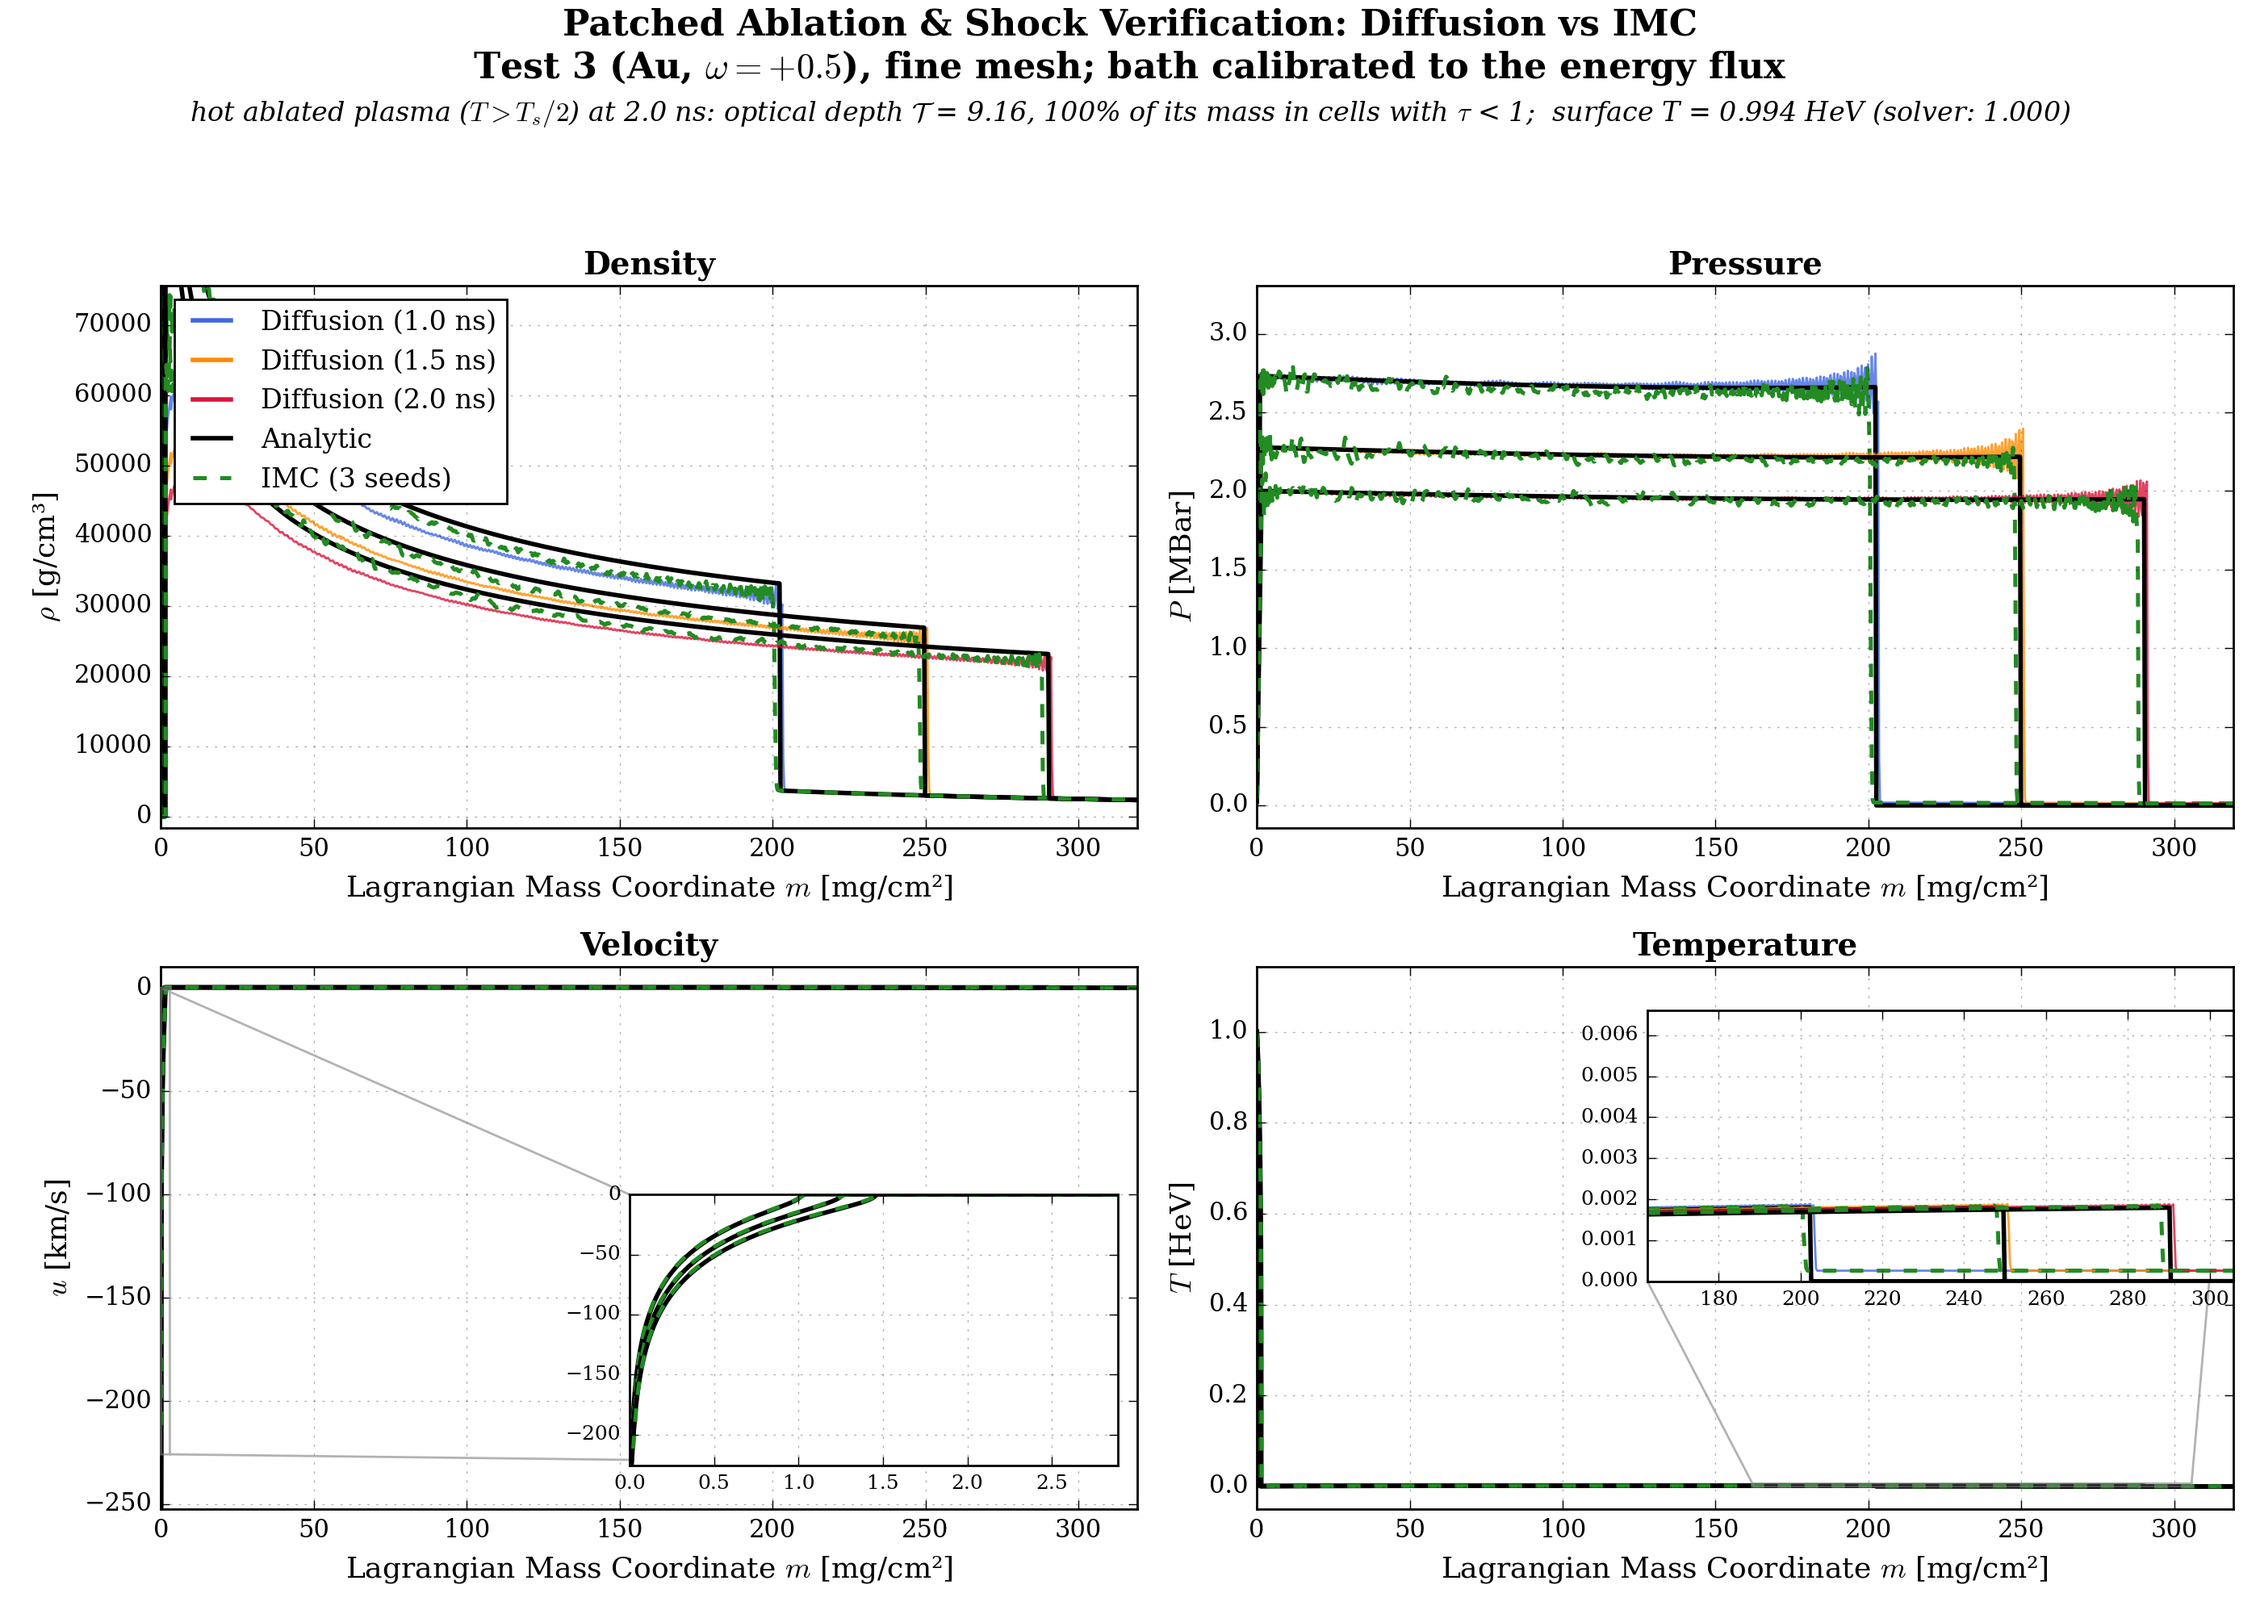
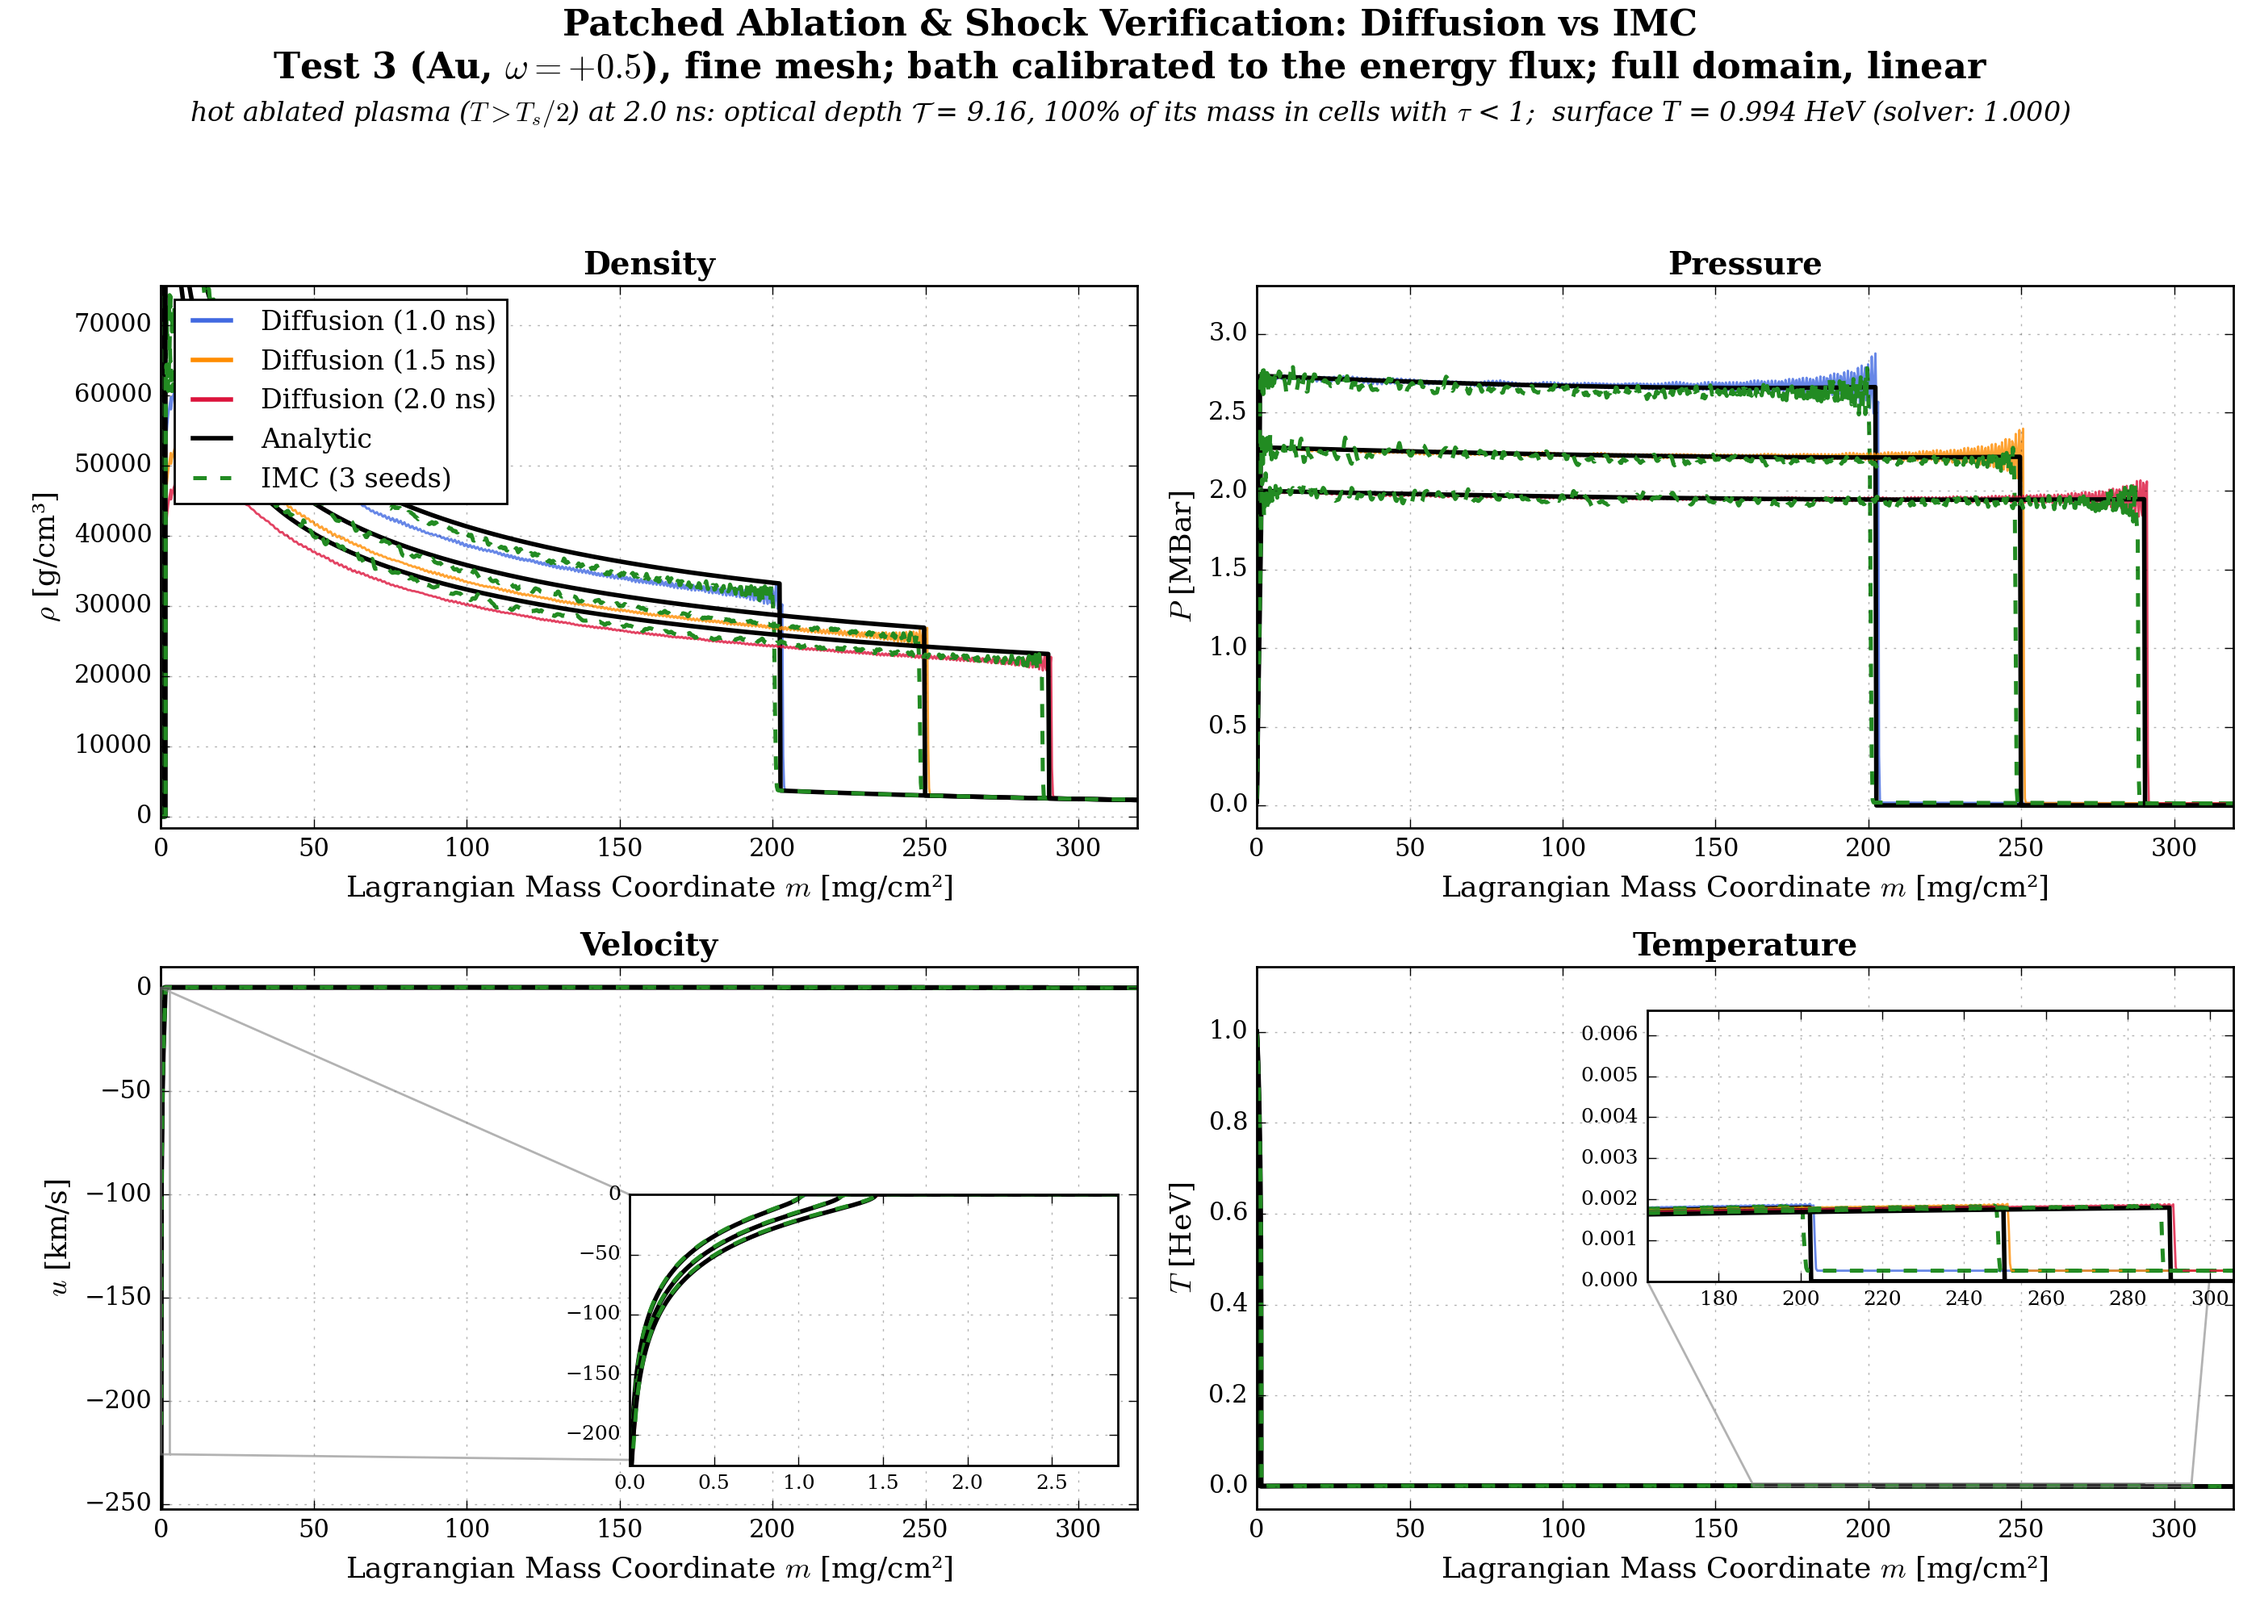
Restore imc_vs_diffusion.py's figure helpers; Test 3 flux views redrawn; convergence notes
imc_vs_diffusion.py and calibrated_flux_bath/test4_full/full_linear.png had been reverted in
the working copy (an older editor buffer); both are back to the last commit, plus the guard
for runs without IMC seeds in _load_hydro. The six Test 3 flux-bath views are redrawn with
the region/scale title and the lower log floor.

omega sweep README: the mesh shift on the uniform-mass meshes follows the number of cells
across the ablated layer (<= 0.3 points from 80 cells, ~1.2 at 40), and at +0.4 it was the
shocked region's cell size quantizing the shock's mass coordinate.

Changed region(s): [[0.1243, 0.031, 0.87, 0.062]]

diff --git a/src/rad_hydro_sim/verification/imc_vs_diffusion.py b/src/rad_hydro_sim/verification/imc_vs_diffusion.py
@@ -638,7 +638,7 @@ def _load_hydro(out: Path, label: str, seeds):
     runs = {"diffusion": np.load(out / f"{label}_diffusion.npz")}
     # IMC runs that have finished; a figure or table without any shows diffusion vs the solver.
     runs["imc"] = [np.load(out / f"{label}_imc{s}.npz") for s in seeds if (out / f"{label}_imc{s}.npz").exists()]
-    for tag in ("diffusion_physical", f"imc_physical{seeds[0]}"):
+    for tag in ("diffusion_physical", *((f"imc_physical{seeds[0]}",) if seeds else ())):
         if (out / f"{label}_{tag}.npz").exists():
             runs[tag.rstrip("0123456789")] = np.load(out / f"{label}_{tag}.npz")
     return runs

diff --git a/md/phase_c/omega_sweep/README.md b/md/phase_c/omega_sweep/README.md
@@ -72,7 +72,8 @@ The uniform-mass meshes put ≥ 40 cells across the ablated layer at 2 ns (cells
 `mesh_convergence.png`: every ω again on a finer mesh (`--fine`), both baths: 2.5× the cells of the uniform-mass mesh for ω ≤ +0.2 (1000 to 3775 cells), and Test 3's fine-mesh cap of 0.3 mg/cm² per cell on the graded mesh for ω ≥ +0.4. The flux tables are the default mesh's.
 - **ω ≤ −0.4:** every front moves by ≤ 0.5 points: the trend with ω is converged.
 - **ω = −0.2 … +0.2:** up to 1.3 points on the shock (ω = 0: m_s −0.8 → −2.0%; +0.2: +0.5 → −0.8%), so at small |ω| the remaining differences of 1–2% are of the order of the mesh error.
-- **ω = +0.4:** the cap moves the shock mass from −3.3% to −0.7% (the coarse shocked region was the error); x_f stays at −8.7%.
+- **What sets the mesh error on the uniform-mass meshes is the number of cells across the ablated layer**, not the cells at the shock: the shift in m_s with refinement is 0.3, 0.1, 0.1, 0.7, 1.2 and 1.3 points for 197, 130, 81, 47, 39 and 39 layer cells (ω = −0.8 … +0.2). The layer is the drive: refining it moves m_f by up to 0.7 points and the shock follows. The default rule of 40 cells per layer is therefore marginal (~1% on the shock); ≥ 80 cells keeps it ≤ 0.3%.
+- **ω = +0.4:** the cap moves the shock mass from −3.3% to −0.7% while x_s, m_f and the 127 layer cells do not change: here the error was the coarse shocked region, whose 1–12 mg/cm² cells quantize the shock's mass coordinate (−3.3% of 144 mg/cm² is ~5 mg/cm², about half a cell). In dense shocked matter a large mass offset is a tiny position offset, so x_s was right all along; x_f stays at −8.7%.
 - **ω = +0.6:** m_s −0.1 → +1.8%, x_s +6.3 → +5.6%; x_f stays unresolved, since the cap does not refine the heated cell at the front.
 
 ### ω = +0.6 and +0.8
